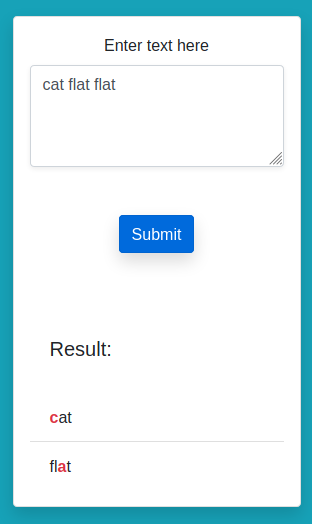
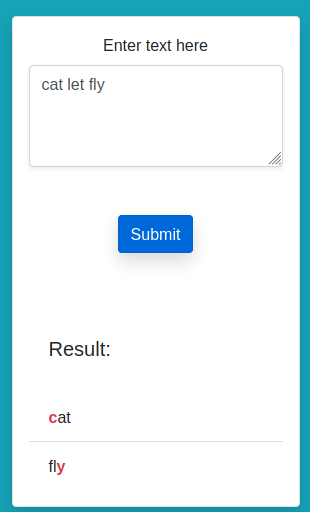
change example

diff --git a/index.html b/index.html
@@ -9,7 +9,7 @@
       integrity="sha384-JcKb8q3iqJ61gNV9KGb8thSsNjpSL0n8PARn9HuZOnIxN0hoP+VmmDGMN5t9UJ0Z"
       crossorigin="anonymous"
     />
-    <title>Is a cyrillic letter present?</title>
+    <title>Cyr Letter</title>
   </head>
   <body class="bg-info">
     <div class="container">

diff --git a/README.md b/README.md
@@ -5,7 +5,7 @@
 
 Cheking words:
 
-сat flat flаt
+сat let flу
 
 <img src="./img/example.png">
 
